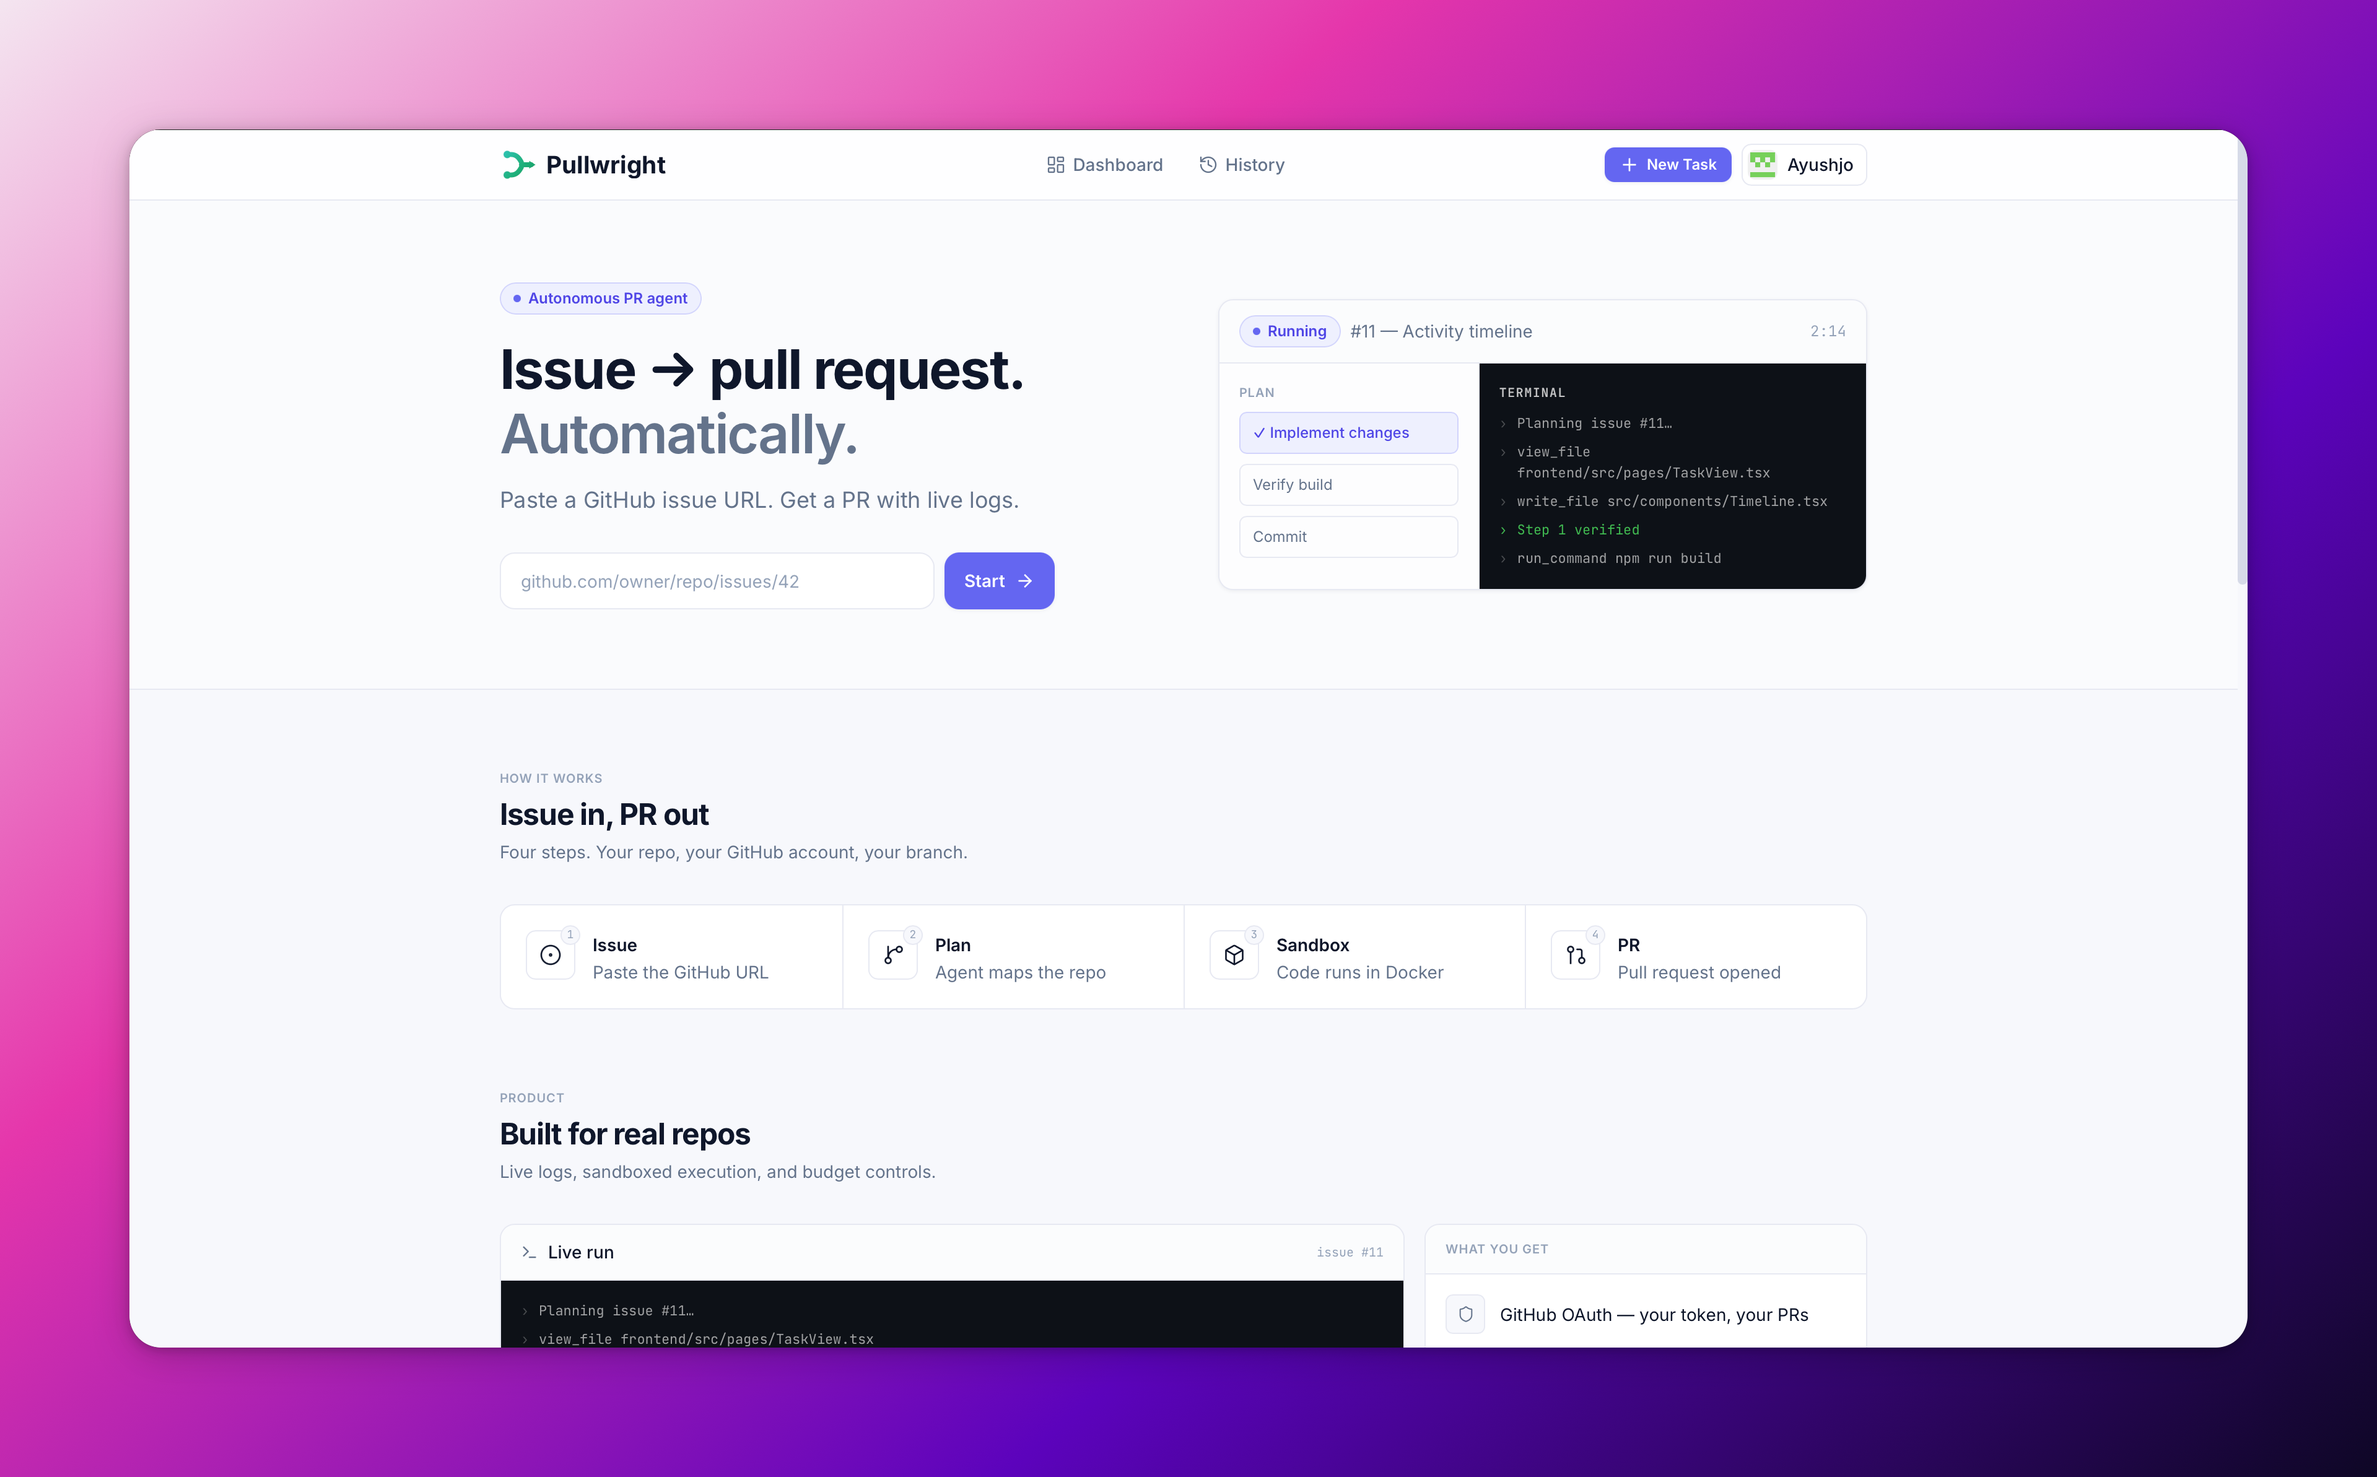
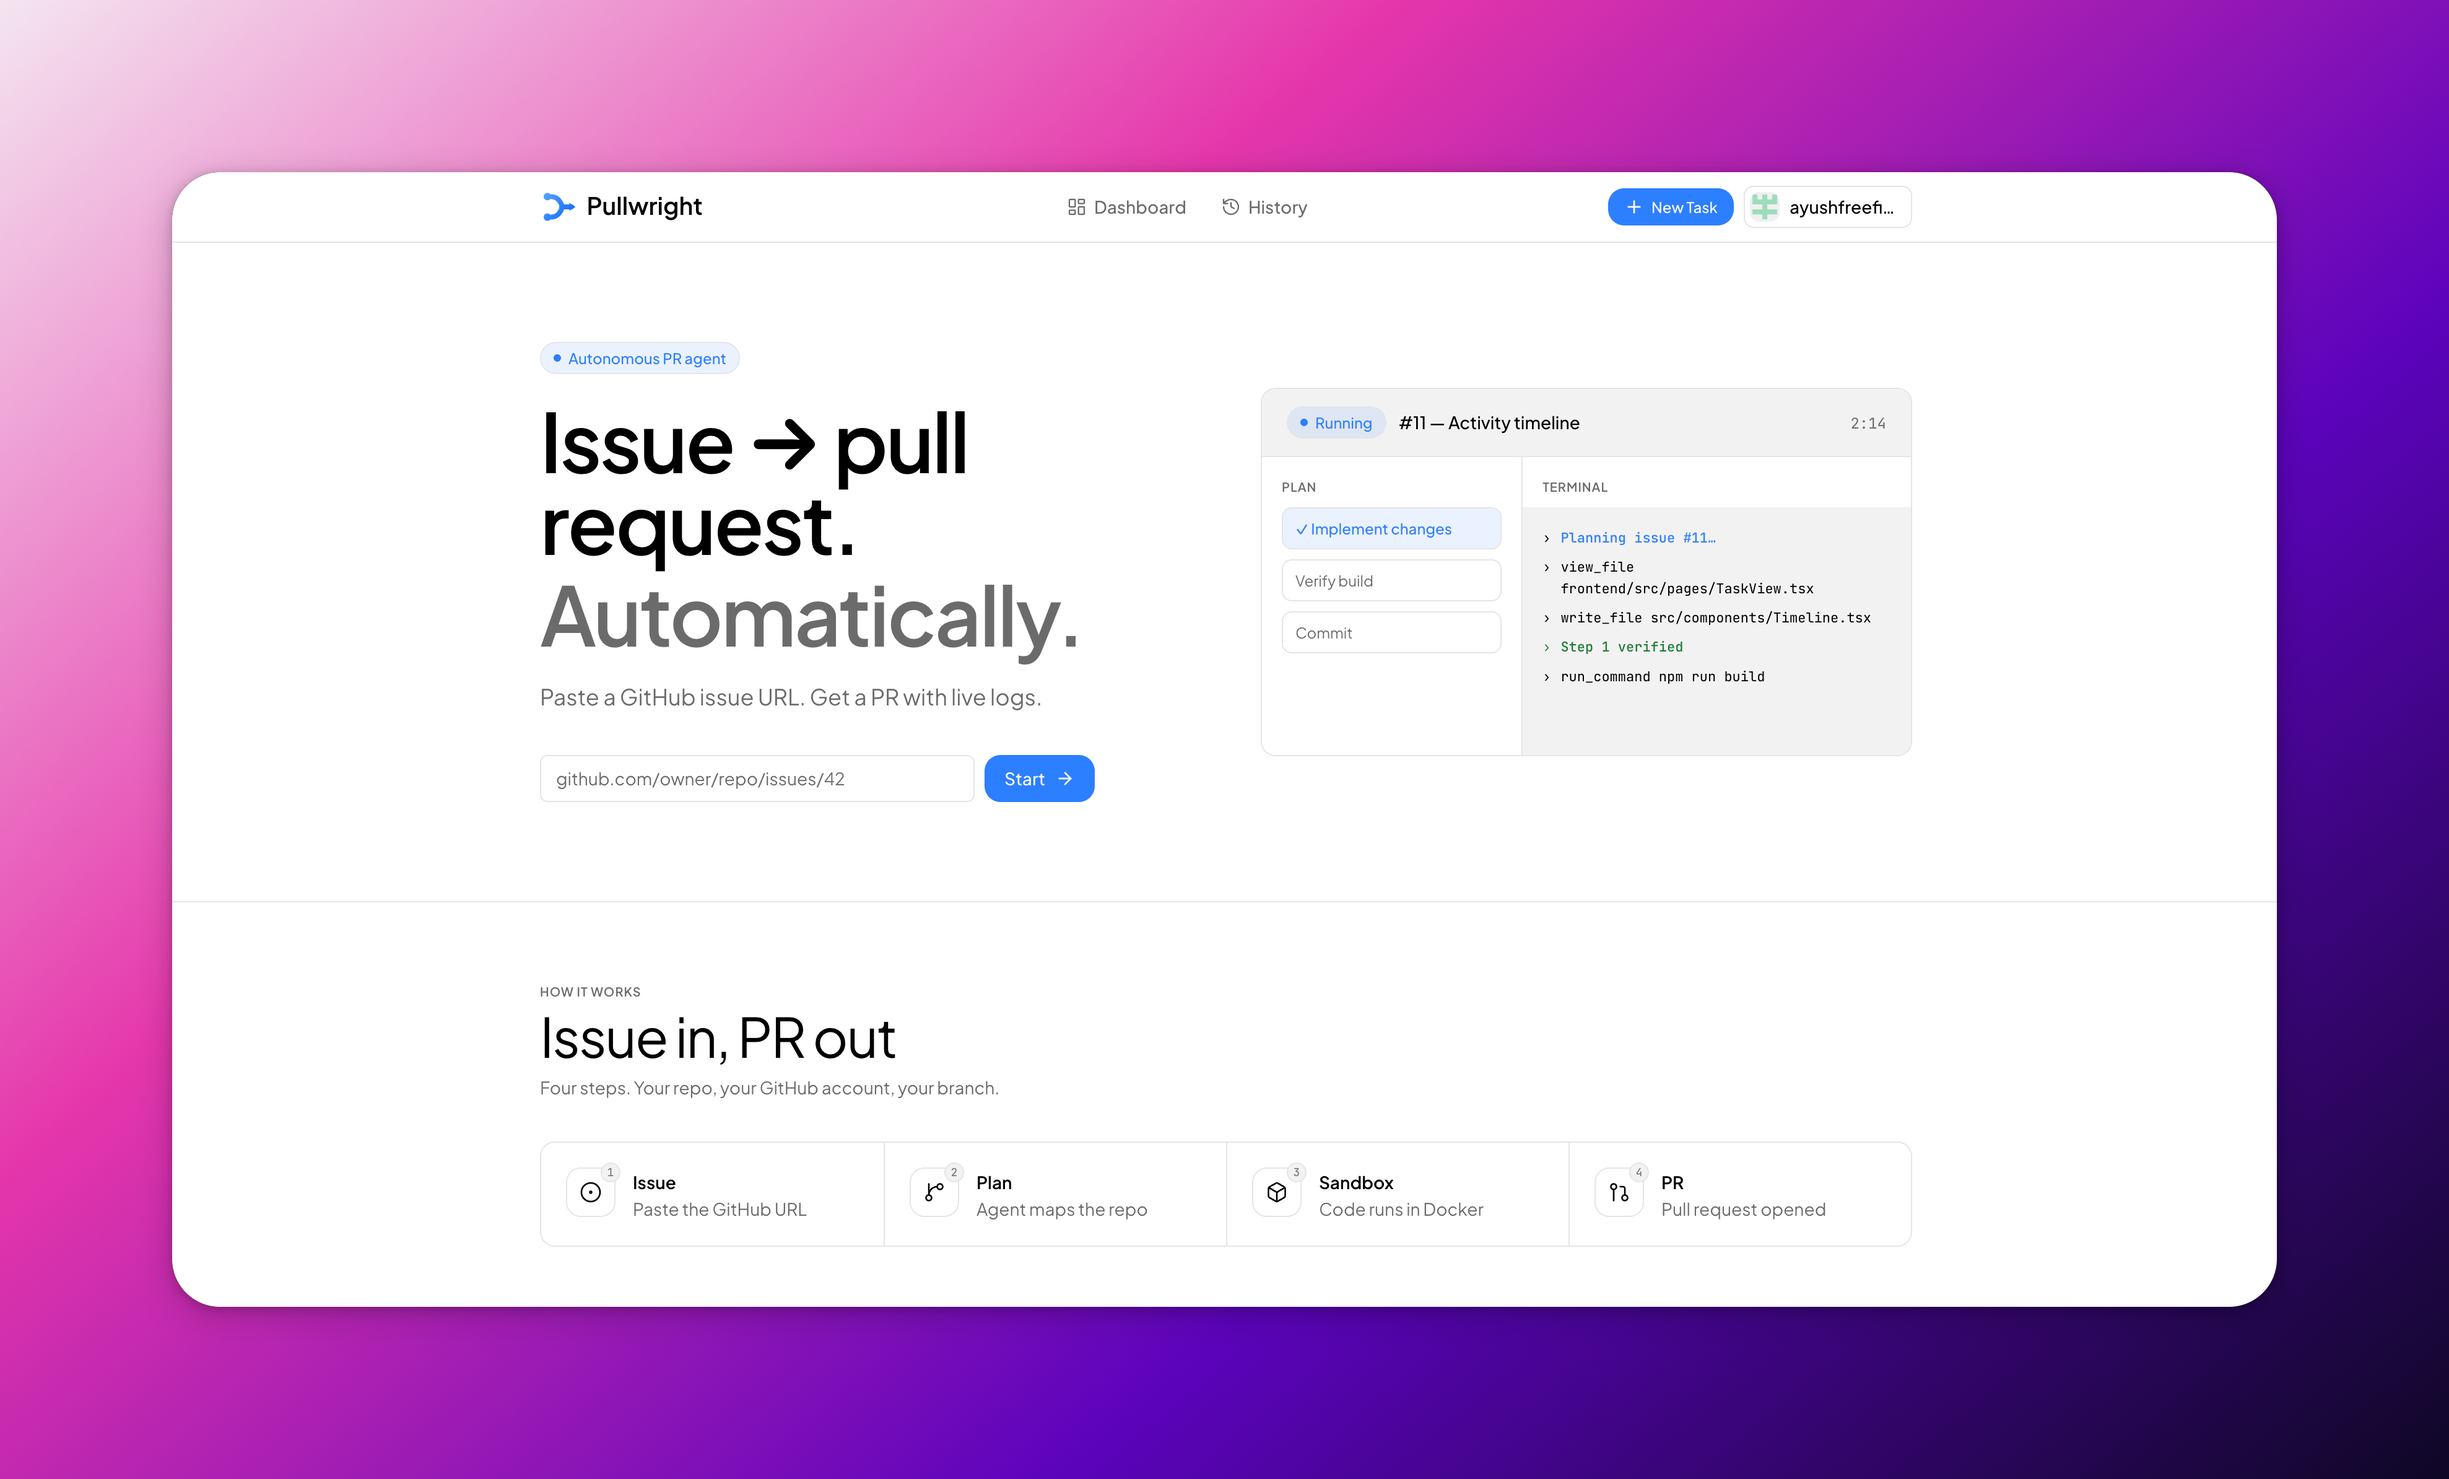
Point Pullwright to live site and fix project card link targets.
Use pullwright.iayush.com as the primary link, keep GitHub as a secondary icon, and open live sites vs repos based on each project's href.

diff --git a/src/Components/ProjectCard.tsx b/src/Components/ProjectCard.tsx
@@ -50,6 +50,13 @@ const ProjectCard: React.FC<ProjectCardProps> = ({ project }) => {
   const previewImage = project.previewImage;
   const [ogImage, setOgImage] = useState<string | null>(previewImage ?? null);
 
+  const isGithubLink = (url: string) => url.includes("github.com");
+  const primaryLink = href;
+  const showGithubLink = Boolean(github && github !== primaryLink);
+  const openLabel = isGithubLink(primaryLink)
+    ? `Open ${title} on GitHub`
+    : `Open ${title} live site`;
+
   useEffect(() => {
     let isMounted = true;
 
@@ -153,23 +160,23 @@ const ProjectCard: React.FC<ProjectCardProps> = ({ project }) => {
     >
       <div className="relative flex flex-col h-full min-h-[220px]">
         <a
-          href={href}
+          href={primaryLink}
           target="_blank"
           rel="noopener noreferrer"
-          aria-label={`Open ${title} live site`}
+          aria-label={openLabel}
           className="absolute inset-0 z-0 rounded-2xl"
         />
         <div className="absolute top-0 right-0 flex items-start gap-2 z-20">
           <a
-            href={href}
+            href={primaryLink}
             target="_blank"
             rel="noopener noreferrer"
-            aria-label={`Open ${title} live site`}
+            aria-label={openLabel}
             className="text-neutral-400 dark:text-neutral-500 group-hover/card:text-black dark:group-hover/card:text-white transition-colors"
           >
             <ArrowUpRight size={20} />
           </a>
-          {project.github && (
+          {showGithubLink && github && (
             <a
               href={project.github}
               target="_blank"
@@ -184,7 +191,7 @@ const ProjectCard: React.FC<ProjectCardProps> = ({ project }) => {
 
         <div className="flex flex-col flex-1 min-h-0">
           <a
-            href={href}
+            href={primaryLink}
             target="_blank"
             rel="noopener noreferrer"
             className="block relative z-10 pr-14"

diff --git a/src/constants/portfolio.ts b/src/constants/portfolio.ts
@@ -227,10 +227,11 @@ export const PORTFOLIO_CONTENT: {
       title: "Pullwright",
       desc: "Autonomous GitHub issue-resolution agent: submit an issue, AI plans the fix, executes tool calls in an isolated Docker sandbox, and opens a PR end-to-end. Live SSE dashboard streams every LLM call and tool invocation. Hybrid LLM router across 5 providers with Redis-backed per-task $0.10 budget guard; shipped 8-file fixes in ~15 min and sub-$0.02 fixes in ~7 min.",
       tags: ["Node.js", "TypeScript", "Docker", "Redis", "BullMQ", "Multi-LLM", "React"],
-      href: "https://github.com/Ayushjo/MyOwnDevin",
+      href: "https://pullwright.iayush.com",
       github: "https://github.com/Ayushjo/MyOwnDevin",
       className: "md:col-span-1",
       previewType: "site",
+      siteUrl: "https://pullwright.iayush.com",
       previewImage: "/previews/pullwright.png",
     },
     {
